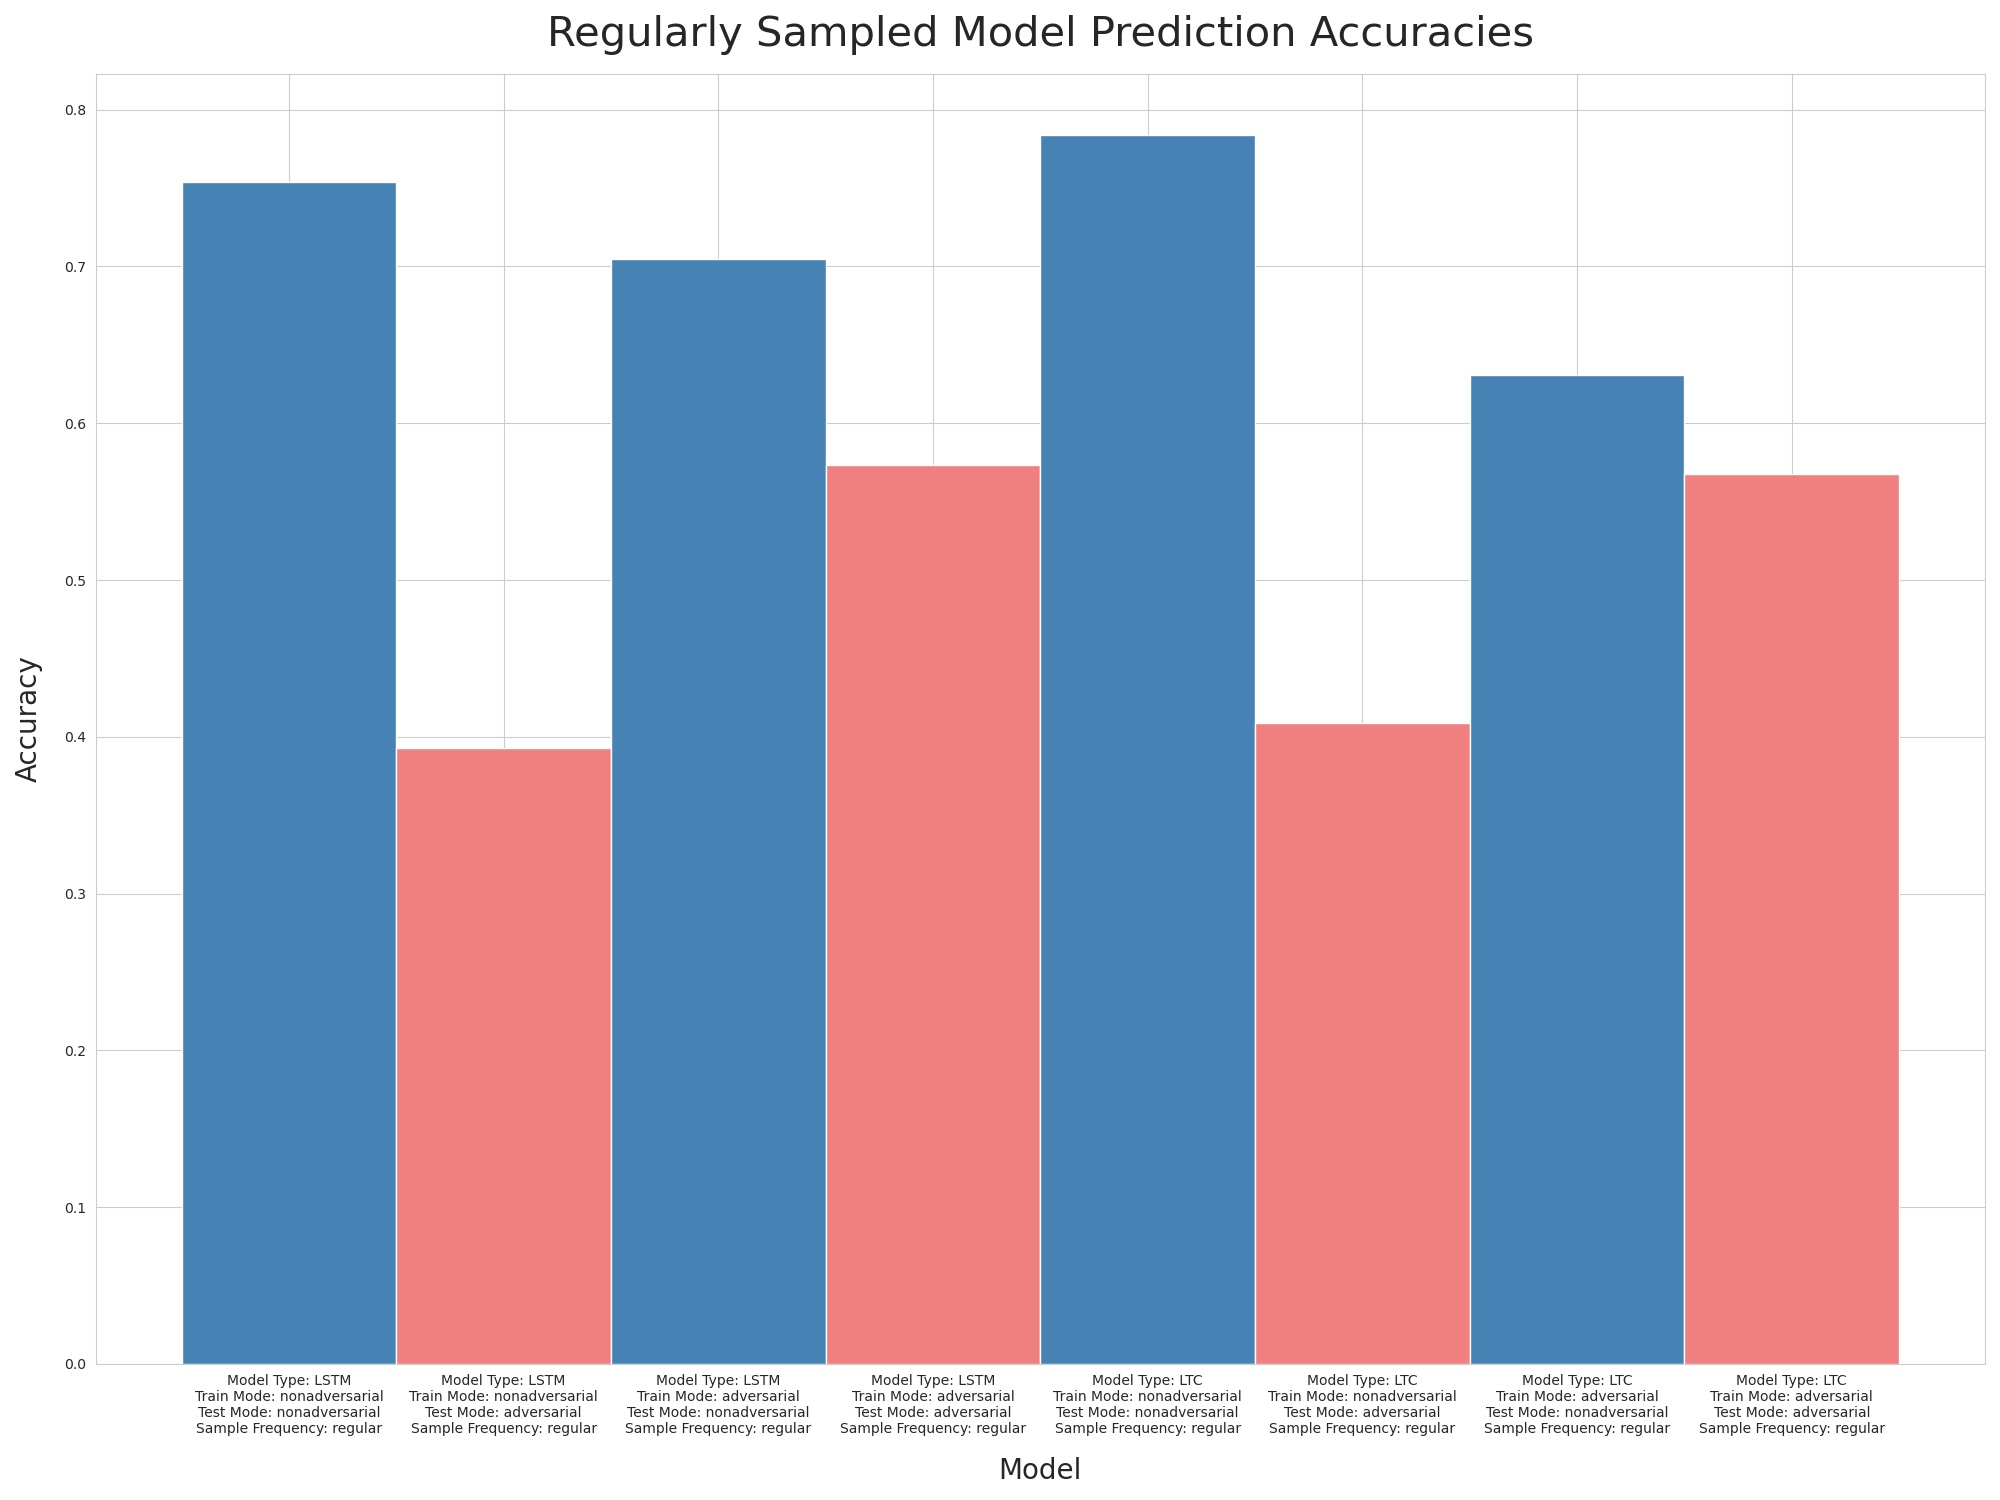
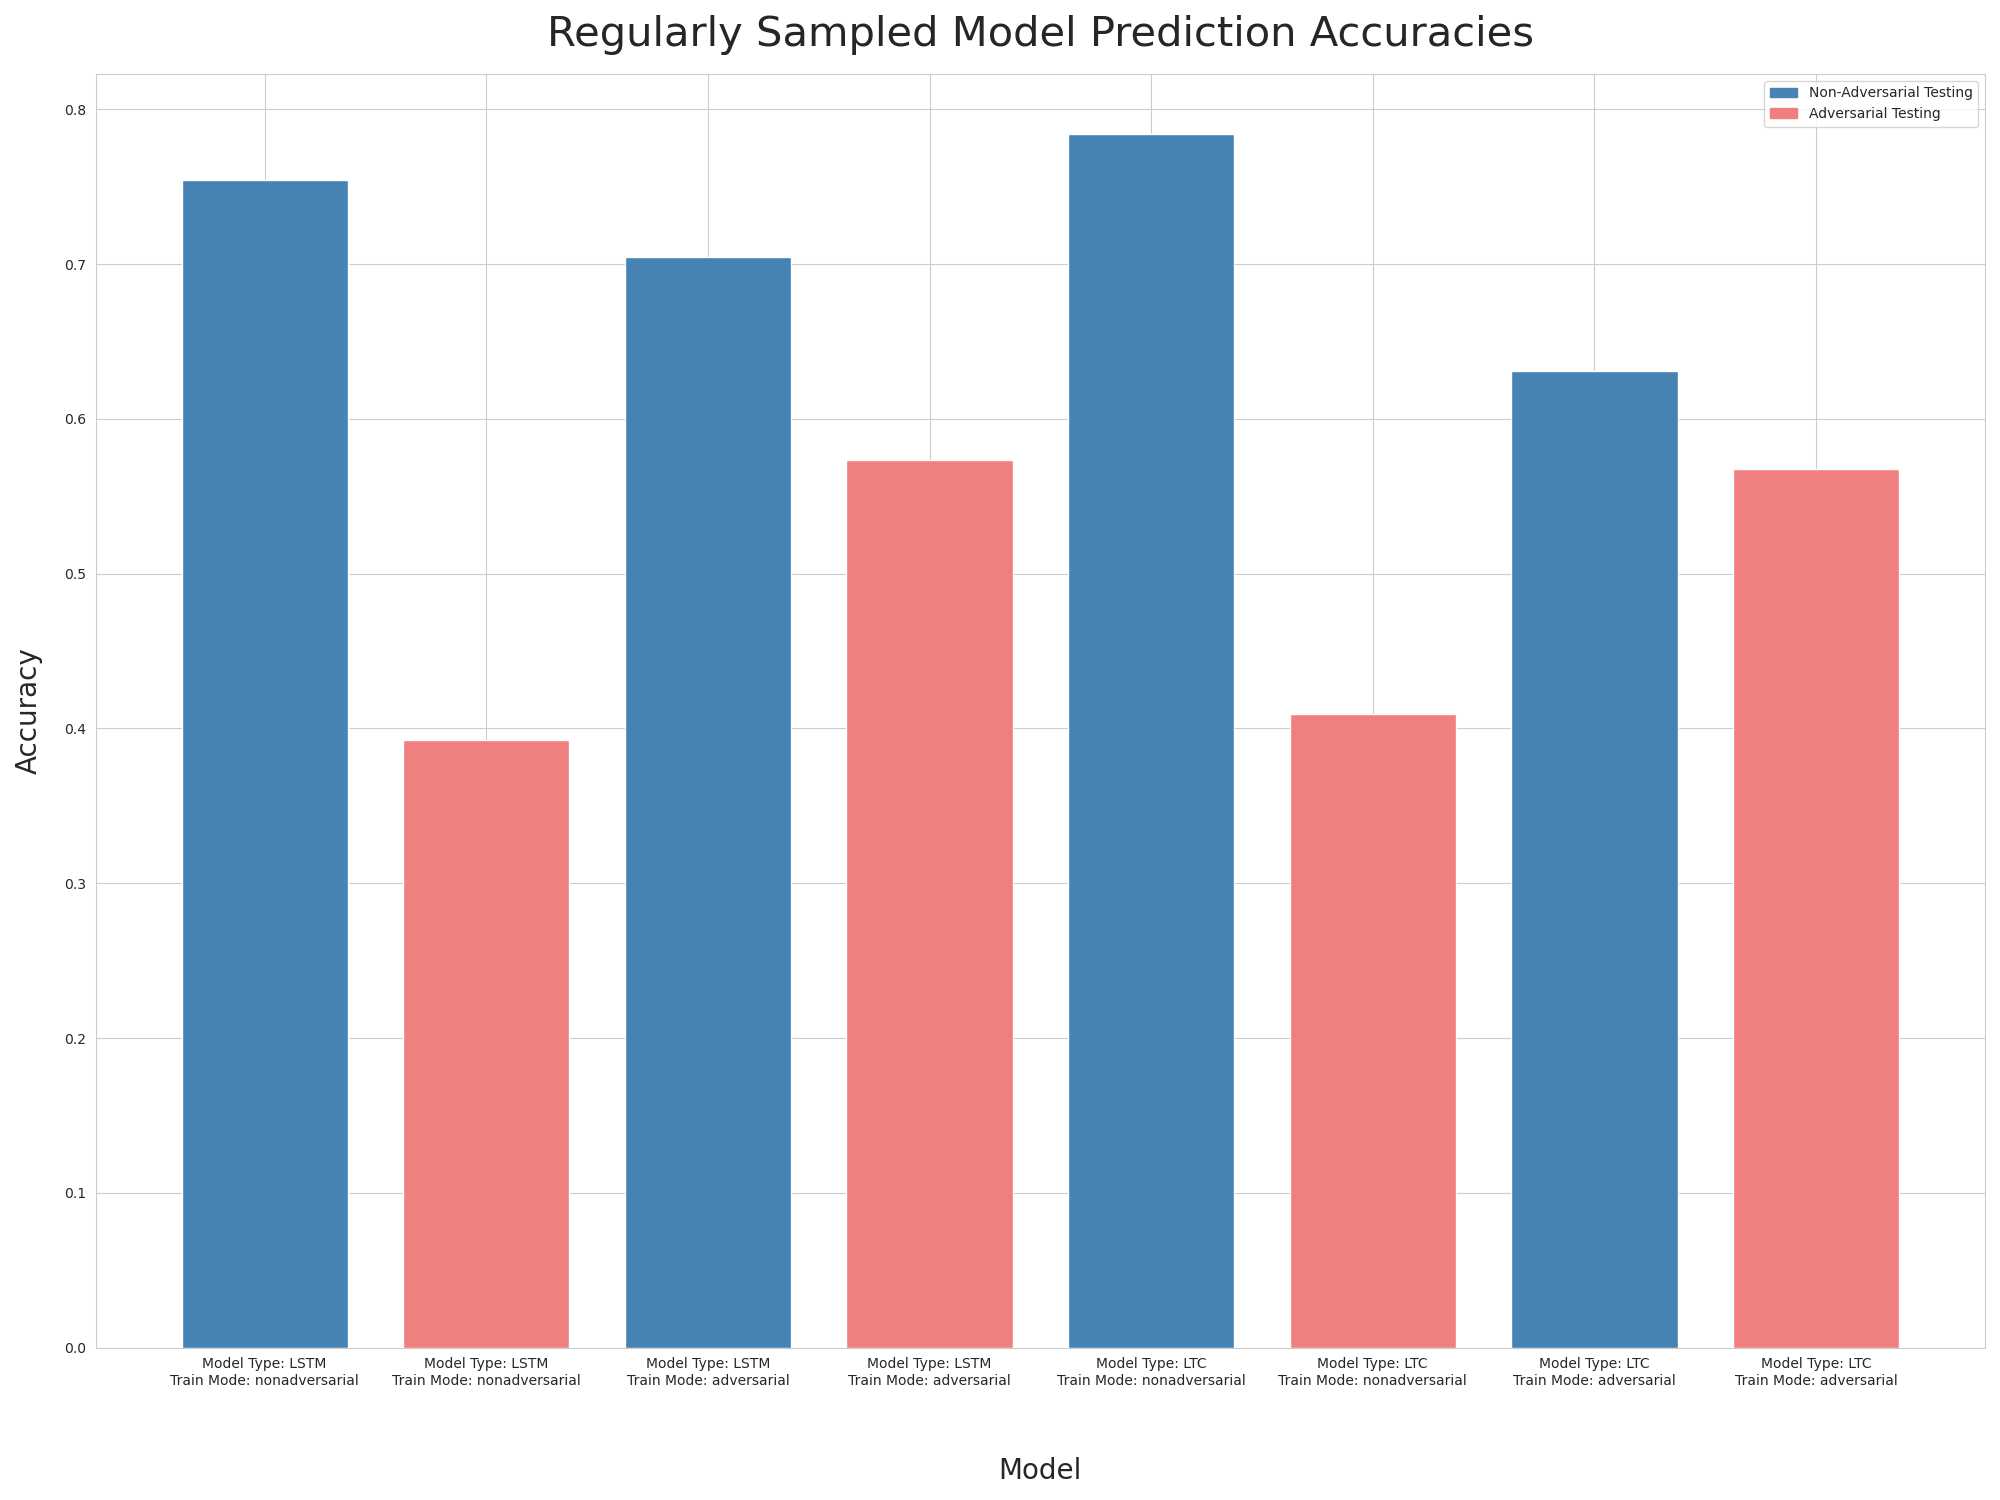
More formatting fixes for model accuracy bar plot

diff --git a/accuracy_plot.py b/accuracy_plot.py
@@ -1,6 +1,7 @@
 import tensorflow as tf
 import numpy as np
 import matplotlib.pyplot as plt
+import matplotlib.patches as mpatches
 import seaborn as sns
 import argparse
 import os
@@ -47,6 +48,7 @@ def sort_models(model_names, model_accuracies):
     train_mode = train_mode[12:]
     test_mode = test_mode[11:]
     sample = sample[18:]
+    name = f"Model Type: {model_type}\nTrain Mode: {train_mode}\n\n\n"
     if(model_type == "LSTM" and train_mode == "nonadversarial" and test_mode == "nonadversarial"):
       new_model_names.append(name)
       new_model_accuracies.append(model_accuracies[i])
@@ -57,6 +59,7 @@ def sort_models(model_names, model_accuracies):
     train_mode = train_mode[12:]
     test_mode = test_mode[11:]
     sample = sample[18:]
+    name = f"Model Type: {model_type}\nTrain Mode: {train_mode}\n\n"
     if(model_type == "LSTM" and train_mode == "nonadversarial" and test_mode == "adversarial"):
       new_model_names.append(name)
       new_model_accuracies.append(model_accuracies[i])
@@ -68,6 +71,7 @@ def sort_models(model_names, model_accuracies):
     train_mode = train_mode[12:]
     test_mode = test_mode[11:]
     sample = sample[18:]
+    name = f"Model Type: {model_type}\nTrain Mode: {train_mode}\n\n\n"
     if(model_type == "LSTM" and train_mode == "adversarial" and test_mode == "nonadversarial"):
       new_model_names.append(name)
       new_model_accuracies.append(model_accuracies[i])
@@ -78,6 +82,7 @@ def sort_models(model_names, model_accuracies):
     train_mode = train_mode[12:]
     test_mode = test_mode[11:]
     sample = sample[18:]
+    name = f"Model Type: {model_type}\nTrain Mode: {train_mode}\n\n"
     if(model_type == "LSTM" and train_mode == "adversarial" and test_mode == "adversarial"):
       new_model_names.append(name)
       new_model_accuracies.append(model_accuracies[i])
@@ -89,6 +94,7 @@ def sort_models(model_names, model_accuracies):
     train_mode = train_mode[12:]
     test_mode = test_mode[11:]
     sample = sample[18:]
+    name = f"Model Type: {model_type}\nTrain Mode: {train_mode}\n\n\n"
     if(model_type == "LTC" and train_mode == "nonadversarial" and test_mode == "nonadversarial"):
       new_model_names.append(name)
       new_model_accuracies.append(model_accuracies[i])
@@ -99,6 +105,7 @@ def sort_models(model_names, model_accuracies):
     train_mode = train_mode[12:]
     test_mode = test_mode[11:]
     sample = sample[18:]
+    name = f"Model Type: {model_type}\nTrain Mode: {train_mode}\n\n"
     if(model_type == "LTC" and train_mode == "nonadversarial" and test_mode == "adversarial"):
       new_model_names.append(name)
       new_model_accuracies.append(model_accuracies[i])
@@ -110,6 +117,7 @@ def sort_models(model_names, model_accuracies):
     train_mode = train_mode[12:]
     test_mode = test_mode[11:]
     sample = sample[18:]
+    name = f"Model Type: {model_type}\nTrain Mode: {train_mode}\n\n\n"
     if(model_type == "LTC" and train_mode == "adversarial" and test_mode == "nonadversarial"):
       new_model_names.append(name)
       new_model_accuracies.append(model_accuracies[i])
@@ -120,6 +128,7 @@ def sort_models(model_names, model_accuracies):
     train_mode = train_mode[12:]
     test_mode = test_mode[11:]
     sample = sample[18:]
+    name = f"Model Type: {model_type}\nTrain Mode: {train_mode}\n\n"
     if(model_type == "LTC" and train_mode == "adversarial" and test_mode == "adversarial"):
       new_model_names.append(name)
       new_model_accuracies.append(model_accuracies[i])
@@ -129,13 +138,18 @@ def sort_models(model_names, model_accuracies):
 regular_models_sorted, regular_model_accuracies_sorted = sort_models(regular_models, regular_model_accuracies)
 irregular_models_sorted, irregular_model_accuracies_sorted = sort_models(irregular_models, irregular_model_accuracies)
 # print(len(regular_models), len(irregular_model_accuracies))
+# print(regular_models_sorted, regular_model_accuracies_sorted)
 
 sns.set_style("whitegrid")
 def plot_all_models_accuracy_bar(models, model_accuracies, regular):
-  x = np.arange(len(models))
   colors = ['steelblue', 'lightcoral', 'steelblue', 'lightcoral', 'steelblue', 'lightcoral', 'steelblue', 'lightcoral']
   plt.figure(figsize=(20, 15))
-  plt.bar(models, model_accuracies, 1.0, color=colors)
+  plt.bar(models, model_accuracies, 0.75, color=colors)
+  # Create a custom legend
+  legend_labels = ['Non-Adversarial Testing', 'Adversarial Testing']
+  legend_colors = ['steelblue', 'lightcoral']
+  legend_handles = [mpatches.Patch(color=color) for color in legend_colors]
+  plt.legend(legend_handles, legend_labels, facecolor='white', loc='upper right')
   plt.xlabel('Model', fontsize = 20, labelpad = 15)
   plt.ylabel('Accuracy', fontsize = 20, labelpad = 15)
   if regular:
